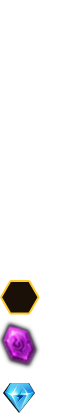
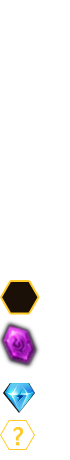
完成标签数值旋转特效

Changed region(s): [[0.0, 0.5881, 0.5714, 0.9905]]

diff --git a/css/data-quanminchaoshen.css b/css/data-quanminchaoshen.css
@@ -45,14 +45,29 @@ a{ text-decoration:none}
 .herod_bg_transparent{ width:100%}
 .herod .head .tit{ font-size:2.1rem; padding-bottom:5px; margin-bottom:10px; border-bottom:1px solid rgba(255,255,255,0.4)}
 .herod .head .tit div{ font-size:1.5rem; color:#ffca28}
-.herod .head .label span{ padding:0 5px; margin-right:10px; font-size:1.4rem}
+.herod .head .label span{ padding:0 5px; margin-right:12px; font-size:1.4rem}
 .herod .head .label span:first-child{ background:#c64251}
 .herod .head .label span:nth-child(2){ background:#b88a3a}
 .herod .head .label span:nth-child(3){ background:#3d899f}
 .herod .head .label span:nth-child(4){ background:#9c62a6}
 .herod .head .labelvalue{ padding:10px 0}
-.herod .head .labelvalue .item{ display:inline-block}
+.herod .head .labelvalue .item{ display:inline-block; margin-right:15px}
 .herod .head .labelvalue .item span{ font-size:1.4rem}
+/*标签数值旋转特效*/
+.herod .head .circle{ display:inline-block; vertical-align:-3px; position:relative; width:16px; height:16px; background:rgba(255,255,255,0.2); border-radius:50%}
+.herod .head .circle .num{ position:absolute; top:2px; left:2px; width:12px; height:12px; line-height:1; overflow:hidden; text-align:center; font-size:1.2rem; background:#23100c; border-radius:50%}
+.herod .head .circle .pie{ width:16px; height:16px; position:absolute; top:0; left:0}
+.herod .head .circle .l{ clip:rect(0 8px auto 0)}
+.herod .head .circle .r{ clip:rect(0 auto auto 8px)}
+.herod .head .circle .pie i{ width:12px; height:12px; position:absolute; top:0; left:0; border:2px solid transparent; border-radius:50%; -webkit-transform:rotate(-135deg); background-position:-135px}
+.herod .head .circle_red .l i{ border-bottom:2px solid #e92b41; border-left:2px solid #e92b41}
+.herod .head .circle_red .r i{ border-top:2px solid #e92b41; border-right:2px solid #e92b41}
+.herod .head .circle_purple .l i{ border-bottom:2px solid #9d33c2; border-left:2px solid #9d33c2}
+.herod .head .circle_purple .r i{ border-top:2px solid #9d33c2; border-right:2px solid #9d33c2}
+.herod .head .circle_green .l i{ border-bottom:2px solid #20d48a; border-left:2px solid #20d48a}
+.herod .head .circle_green .r i{ border-top:2px solid #20d48a; border-right:2px solid #20d48a}
+.herod .head .circle_blue .l i{ border-bottom:2px solid #23baf8; border-left:2px solid #23baf8}
+.herod .head .circle_blue .r i{ border-top:2px solid #23baf8; border-right:2px solid #23baf8}
 .herod_h2{ font-size:1.5rem; color:#ffca28; border-bottom:1px solid rgba(255,255,255,0.4); padding-bottom:5px; margin-bottom:10px}
 .herod .equipchoice ul{ margin-left:-14px}
 .herod .equipchoice ul li{ display:inline-block; width:16.6%; padding-left:14px; box-sizing:border-box; text-align:center}
@@ -72,7 +87,7 @@ a{ text-decoration:none}
 .herod .star4 em:nth-child(-n+4),.herod .star5 em:nth-child(-n+5),.herod .star6 em:nth-child(-n+6){ background:#4dd2fd}
 .herod .star7 em:nth-child(-n+7),.herod .star8 em:nth-child(-n+8),.herod .star9 em:nth-child(-n+9),.herod .star10 em:nth-child(n){ background:#da5bff}
 .herod .figure{ width:100%; border-collapse:separate; border-spacing:6px; table-layout:fixed}
-.herod .figure td{ background:rgba(0,0,0,0.6); width:60%; text-align:center}
+.herod .figure td{ background:rgba(0,0,0,0.6); width:60%; text-align:center; position:relative; padding:5px 0}
 .herod .figure td:first-child{ width:40%}
 .herod .figure .num{ font-size:2.4rem}
 .herod .figure .num_green{ color:#29dd68}
@@ -82,6 +97,11 @@ a{ text-decoration:none}
 .herod .figure dl{ margin-bottom:5px; font-size:1.2rem}
 .herod .figure dt{ display:inline-block; color:#a3a9ba;  width:50%; text-align:right; padding-right:5px; box-sizing:border-box}
 .herod .figure dd{ display:inline-block; width:50%; text-align:left}
+.herod .figure .tips{ position:absolute; right:5px; left:5px; top:5px}
+.herod .figure .tips .question{ background:url(../images/quanminchaoshen/hero_detail.png) 0 -210px no-repeat; background-size:35px; width:18px; height:15px; position:absolute; top:0; right:0}
+.herod .figure .tips .area{ position:relative; top:18px; right:0}
+.herod .figure .tips .area .tria{ border-bottom:10px solid rgba(0,0,0,0.7); border-left:10px solid transparent; border-right:10px solid transparent; position:absolute; top:0; right:0}
+.herod .figure .tips .area .c{ text-align:left; background:rgba(0,0,0,0.7); position:relative; top:10px; padding:5px; font-size:1.4rem; color:#ffca28}
 .herod .bar{ overflow:hidden; -webkit-user-select:none; user-select:none}
 .herod .bar .l{ float:left; width:15%; font-size:1.2rem; text-align:center}
 .herod .bar .l div{ font-size:1.5rem}

diff --git a/data-quanminchaoshen-hero-detail.html b/data-quanminchaoshen-hero-detail.html
@@ -23,18 +23,38 @@
         <div class="label">
             <span>治疗</span><span>辅助</span><span>AOE</span><span>防御</span>
         </div>
-        <div class="labelvalue">
+        <div class="labelvalue" id="labelvalue">
             <div class="item">
-                <span>伤害</span><i>3</i>
+                <span>伤害</span>
+                <div class="circle circle_red">
+                	<div class="pie l"><i></i></div>
+                	<div class="pie r"><i></i></div>
+                    <div class="num">0</div>
+                </div>
             </div>
             <div class="item">
-                <span>辅助</span><i>3</i>
+                <span>辅助</span>
+                <div class="circle circle_blue">
+                	<div class="pie l"><i></i></div>
+                	<div class="pie r"><i></i></div>
+                    <div class="num">0</div>
+                </div>
             </div>
             <div class="item">
-                <span>生存</span><i>3</i>
+                <span>生存</span>
+                <div class="circle circle_green">
+                	<div class="pie l"><i></i></div>
+                	<div class="pie r"><i></i></div>
+                    <div class="num">0</div>
+                </div>
             </div>
             <div class="item">
-                <span>上手</span><i>3</i>
+                <span>上手</span>
+                <div class="circle circle_purple">
+                	<div class="pie l"><i></i></div>
+                	<div class="pie r"><i></i></div>
+                    <div class="num">0</div>
+                </div>
             </div>
         </div>
         <p class="media_fs_14">具备高伤害的远程战士，攻击范围远且上手难度低。</p>
@@ -147,6 +167,14 @@
                     <div class="v">每级增加165</div>
                 </td>
                 <td rowspan="2">
+                	<div class="tips">
+                    	<i class="question"></i>
+                        <div class="area">
+                        	<i class="tria"></i>
+                            <div class="c">你好你好你好你好你好你好你好你好你好你好你好你好你好你好你好你好你好你好你好你好你好你好你好你好</div>
+                        </div>
+                    </div>
+                    
                     <dl>
                         <dt>法术强度</dt><dd>23(+5每级)</dd>
                     </dl>

diff --git a/js/data-quanminchaoshen-hero.js b/js/data-quanminchaoshen-hero.js
@@ -13,6 +13,55 @@
 		htmlherodetail: function(){
 			var that = this;
 			that.gaussBlur();
+			that.circle();
+		},
+		circle: function(){//伤害 辅助 生存 上手
+			var pieArray = [9,2,5,2];
+			
+			$("#labelvalue").children(".item").each(function(index, element){
+				var $circle = $(this).children(".circle"),
+					$num = $circle.children(".num"),
+					pie = pieArray[index]*36,
+					duration = 0;
+					
+				$num.html(pieArray[index]);
+				if(index == 0){//每个挨着延迟500ms再动
+					duration = 500;
+				}else{
+					duration = index*500+500;
+				}
+
+				if(pie > 180){//如果超过180度，先转右边的，到-135至45度就满180度，再转左边的
+					$circle.children(".r").children("i").delay(duration).animate({
+						"backgroundPosition": 45
+					},{
+						duration: 500,
+						step: function(now,tween){
+							$(this).css('-webkit-transform','rotate('+now+'deg)');
+						},
+						done: function(){
+							var pie_over = pie-180;
+							$circle.children(".l").children("i").animate({
+								"backgroundPosition": -135+pie_over
+							},{
+								duration: 500,
+								step: function(now,tween){
+									$(this).css('-webkit-transform','rotate('+now+'deg)');
+								}
+							});
+						}
+					});
+				}else{//如果小于等于180度，就只转右边，从-135度也就是0度开始
+					$circle.children(".r").children("i").delay(duration).animate({
+						"backgroundPosition": -135+pie
+					},{
+						duration: 1000,
+						step: function(now,tween){
+							$(this).css('-webkit-transform','rotate('+now+'deg)');
+						}
+					});
+				}
+			});
 		},
 		gaussBlur: function(){//高斯模糊
 			var $win = $(window);
